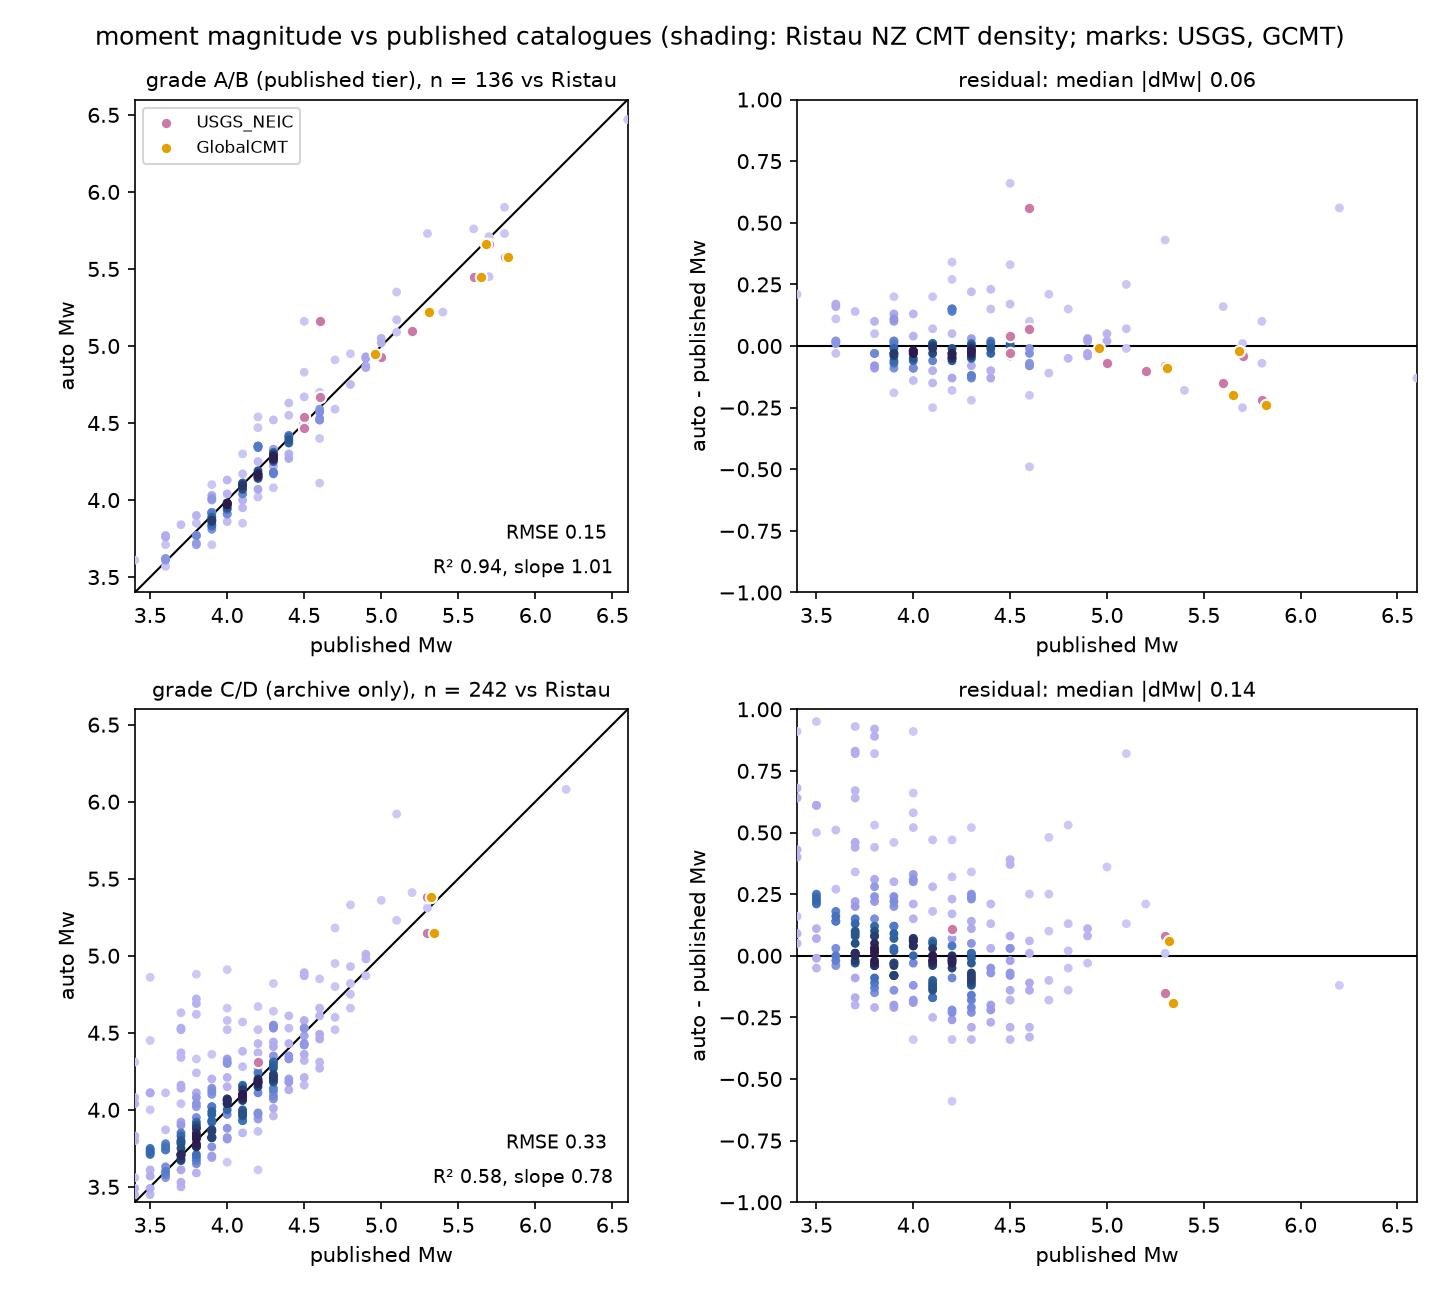
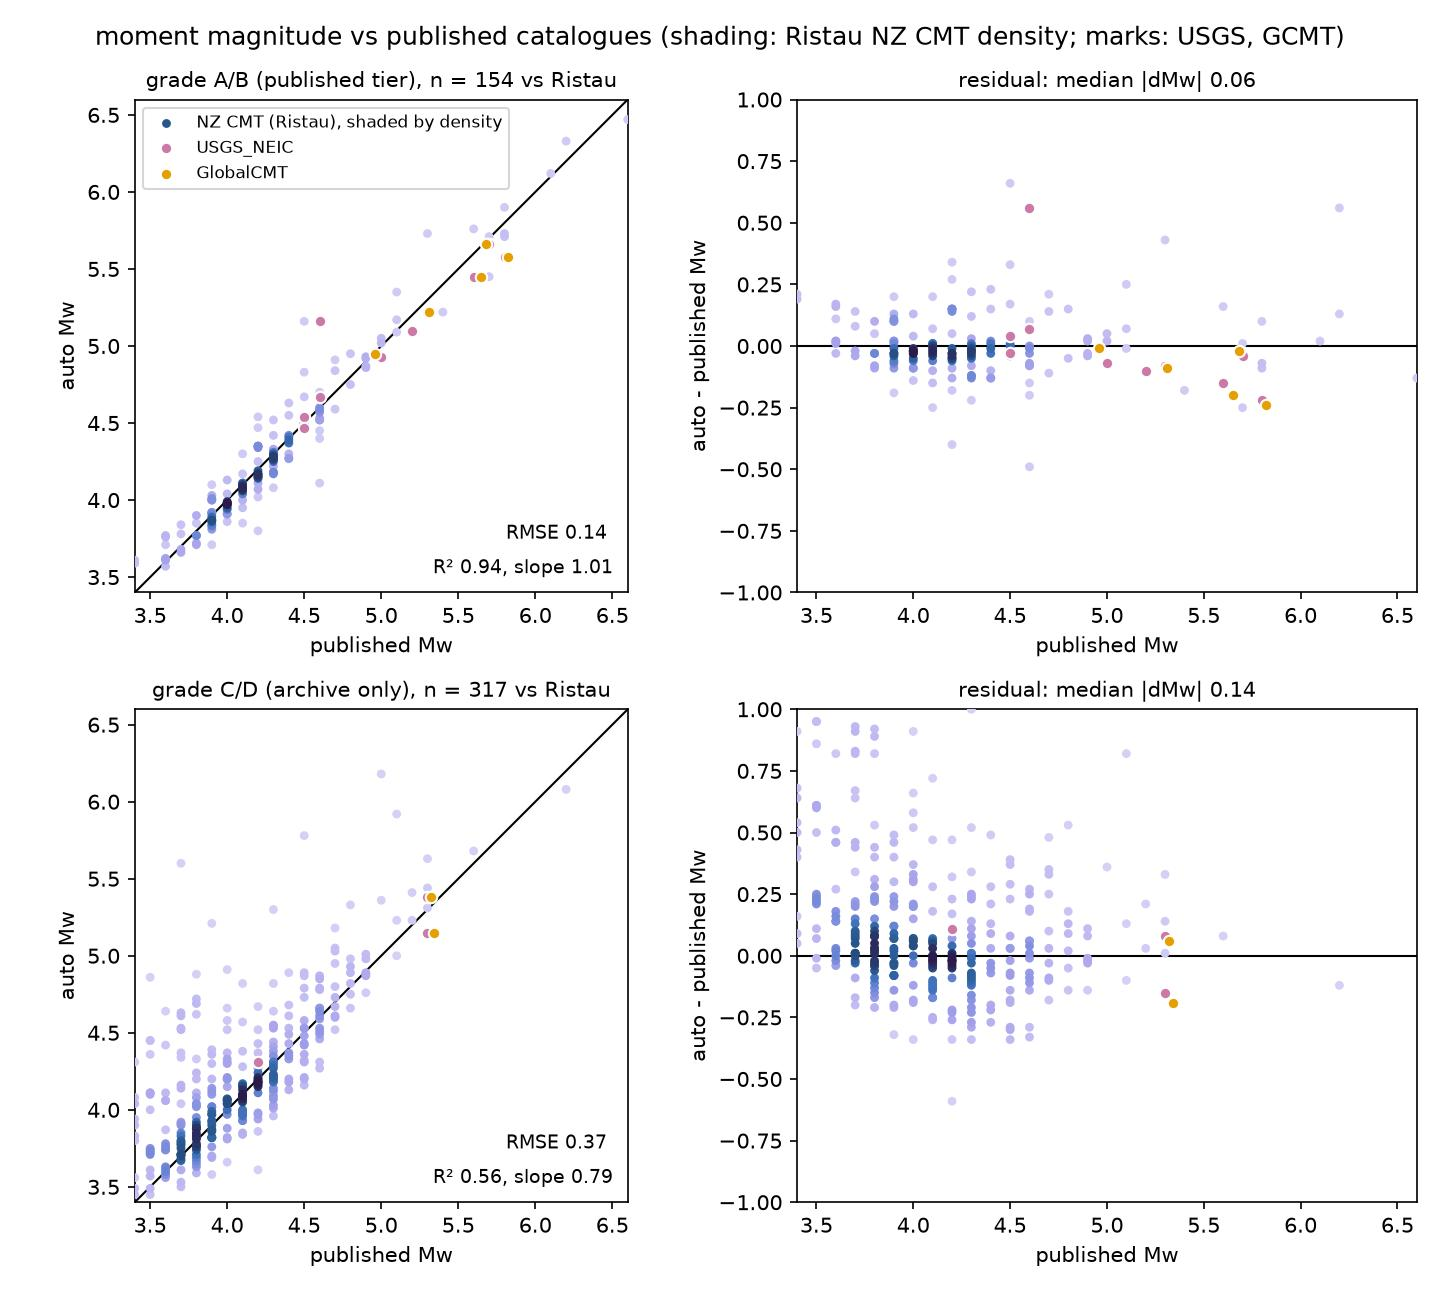
validation: 19:30 snapshot (471 Ristau matches, 2021-03 onward); Ristau legend entry on the density figures

diff --git a/src/validate.py b/src/validate.py
@@ -287,6 +287,9 @@ def main() -> None:
         from cmcrameri import cm as _cmc
         ax.scatter(x[order], y[order], c=z[order], cmap=_cmc.devon_r,
                    vmin=-0.15, vmax=1.0, s=18, linewidths=0, zorder=3)
+        # legend handle for the shaded points (the references get their own)
+        ax.scatter([], [], s=18, color=_cmc.devon_r(0.75), linewidths=0,
+                   label="NZ CMT (Ristau), shaded by density")
 
     def _fit_text(ax, x, y, unit):
         x = np.asarray(x, float); y = np.asarray(y, float)

diff --git a/validation/README.md b/validation/README.md
@@ -18,9 +18,9 @@ pixi run validate        # = python src/validate.py; sync_repo.py runs it too
 > §3, §5, §6 and [`docs/lit_review/`](../docs/lit_review/)). The
 > archive was cleared on 2026-09-07 and is being regenerated from the
 > GeoNet event list (M ≥ 3.7 since 2021) under one code version, newest
-> first. Numbers below are a snapshot taken at 09:50 on 2026-09-08,
-> with the resweep still running: about 510 solved solutions covering
-> 2022-08 to 2026-09, plus 770 attempted events with no coherent
+> first. Numbers below are a snapshot taken at 19:30 on 2026-09-08,
+> with the resweep still running: about 730 solved solutions covering
+> 2021-03 to 2026-09, plus 1290 attempted events with no coherent
 > solution (`not_published.csv`). They will be refreshed when the sweep
 > completes.
 
@@ -33,7 +33,7 @@ Outputs: `comparison.csv` (one row per matched event–reference pair),
 
 | Reference | What it is | What agreement tests |
 |---|---|---|
-| **NZ regional CMTs** (Ristau 2008 method; [GeoNet/data moment-tensor](https://github.com/GeoNet/data/tree/main/moment-tensor)) | Published regional MT solutions using the same method family and the same published velocity models as this pipeline | The *automation*: with method and models shared, disagreement isolates the effect of the automated station selection, band choice and depth search. The largest sample (n = 370 matches: 136 grade A/B, 234 grade C/D) and the primary benchmark. |
+| **NZ regional CMTs** (Ristau 2008 method; [GeoNet/data moment-tensor](https://github.com/GeoNet/data/tree/main/moment-tensor)) | Published regional MT solutions using the same method family and the same published velocity models as this pipeline | The *automation*: with method and models shared, disagreement isolates the effect of the automated station selection, band choice and depth search. The largest sample (n = 471 matches: 154 grade A/B, 317 grade C/D) and the primary benchmark. |
 | **USGS NEIC** moment tensors (ComCat) | Independent agency, independent methods (regional W-phase / body-wave MT), independent software | *Method independence*: agreement here cannot be inherited from shared models or shared processing choices. Smaller sample (n = 13, of which 10 A/B), larger events only. |
 | **Global CMT** (Ekström et al. 2012) | The global long-period standard | The *moment scale and mechanism at long period* for the largest events (n = 7, of which 5 A/B). Long-period centroid depths for shallow events have limited resolution, so depth differences below ~15 km are not diagnostic here. |
 
@@ -55,18 +55,18 @@ contamination, not calibration error).
 
 ![Moment magnitude comparison](comparison_mw.jpg)
 
-**Current standing (vs Ristau, n = 370)**: mean ΔMw **+0.08**,
-median |ΔMw| **0.10** over all grades; the A/B tier alone (n = 136) has
+**Current standing (vs Ristau, n = 471)**: mean ΔMw **+0.11**,
+median |ΔMw| **0.11** over all grades; the A/B tier alone (n = 154) has
 mean **+0.01** and median |ΔMw| **0.06**. By reference-magnitude bin
-the all-grade mean is +0.18 (Mw < 4.0), +0.01 (4.0–4.5) and +0.04
-(≥ 4.5), while the A/B tier sits at +0.03, −0.01 and +0.03 in the same
+the all-grade mean is +0.22 (Mw < 4.0), +0.02 (4.0–4.5) and +0.06
+(≥ 4.5), while the A/B tier sits at +0.03, −0.01 and +0.02 in the same
 bins. The small-magnitude inflation is therefore carried by the C/D
-tier (mean +0.12), which is where noise fitting is expected to show
+tier (mean +0.15), which is where noise fitting is expected to show
 up. Against the independent references the A/B tier is at mean ΔMw
 0.00 (USGS, n = 10) and −0.11 (GCMT, n = 5). The published (A/B)
 moment scale is unbiased at the 0.05 level. A linear fit of automated
 on published Mw for the A/B tier gives slope 1.01, R² 0.94 and RMSE
-0.15; for the C/D tier slope 0.77, R² 0.57 and RMSE 0.33.
+0.14; for the C/D tier slope 0.79, R² 0.56 and RMSE 0.37.
 
 ## 3. Depth: ΔZ
 
@@ -82,19 +82,19 @@ purpose).
 
 ![Centroid depth comparison](comparison_depth.jpg)
 
-**Current standing (vs Ristau)**: median |ΔZ| **7.0 km** over all
-grades and **4.0 km** for the A/B tier (mean ΔZ −1.0 km, 76 % within
+**Current standing (vs Ristau)**: median |ΔZ| **8.0 km** over all
+grades and **4.0 km** for the A/B tier (mean ΔZ −1.1 km, 75 % within
 10 km); the reference depths are not an input to the search. By grade
-the median |ΔZ| steps A **3 km**, B **5 km**, C **7 km**, D **14 km**,
-and the share of events more than 20 km from the reference is 4 % for
-grade A and 34 % for grade D. A linear fit for the A/B tier gives slope 0.82, R² 0.68 and RMSE
-9.9 km (C/D: slope 0.63, R² 0.27, RMSE 17.6 km). Against USGS the A/B
+the median |ΔZ| steps A **3 km**, B **5.5 km**, C **7 km**, D **14 km**,
+and the share of events more than 20 km from the reference is 3 % for
+grade A and 36 % for grade D. A linear fit for the A/B tier gives slope 0.80, R² 0.67 and RMSE
+9.9 km (C/D: slope 0.50, R² 0.20, RMSE 19.9 km). Against USGS the A/B
 median is 5.2 km (n = 10) and against GCMT 4.3 km (n = 5). The largest A/B misses
 (25–36 km) are of two kinds: slab events at 60–80 km in the reference,
 where the Green's-function library ends at 58 km, and events whose
 GeoNet depth is a fixed default (5, 12 or 33 km), where the full grid is
-searched and the pick ran to its shallow edge (16 of the 136 A/B
-matches sit on a grid edge; 29 of the 234 C/D matches). Both are
+searched and the pick ran to its shallow edge (17 of the 154 A/B
+matches sit on a grid edge; 42 of the 317 C/D matches). Both are
 identifiable from the catalogue (`GeoNet_depth`, `Depth_lo`,
 `Depth_hi`).
 
@@ -137,11 +137,11 @@ as published catalogues are with each other".
 ![Mechanism rotation by grade](comparison_rotation.jpg)
 
 **Current standing**: results are reported by grade. The A/B tier has
-a median of **20°** vs Ristau (upper quartile 34°), 24° vs USGS and
-40° vs GCMT (n = 5); the C/D tier has a median of **54°** (upper
-quartile 79°). By grade: A **19°**, B **22°**, C **41°**, D **73°**.
-The all-grades median of 37° reflects the composition of the matched
-set, which is nearly two-thirds C/D. Three A/B solutions rotate by more
+a median of **20°** vs Ristau (upper quartile 35°), 24° vs USGS and
+40° vs GCMT (n = 5); the C/D tier has a median of **58°** (upper
+quartile 81°). By grade: A **20°**, B **20°**, C **46°**, D **73°**.
+The all-grades median of 43° reflects the composition of the matched
+set, which is two-thirds C/D. Five A/B solutions rotate by more
 than 85°; they are small-station-count or shallow-edge cases (for
 example a four-station grade A at 1 km against 12 km in the reference)
 and are the cases the jackknife and depth flags are meant to catch.
